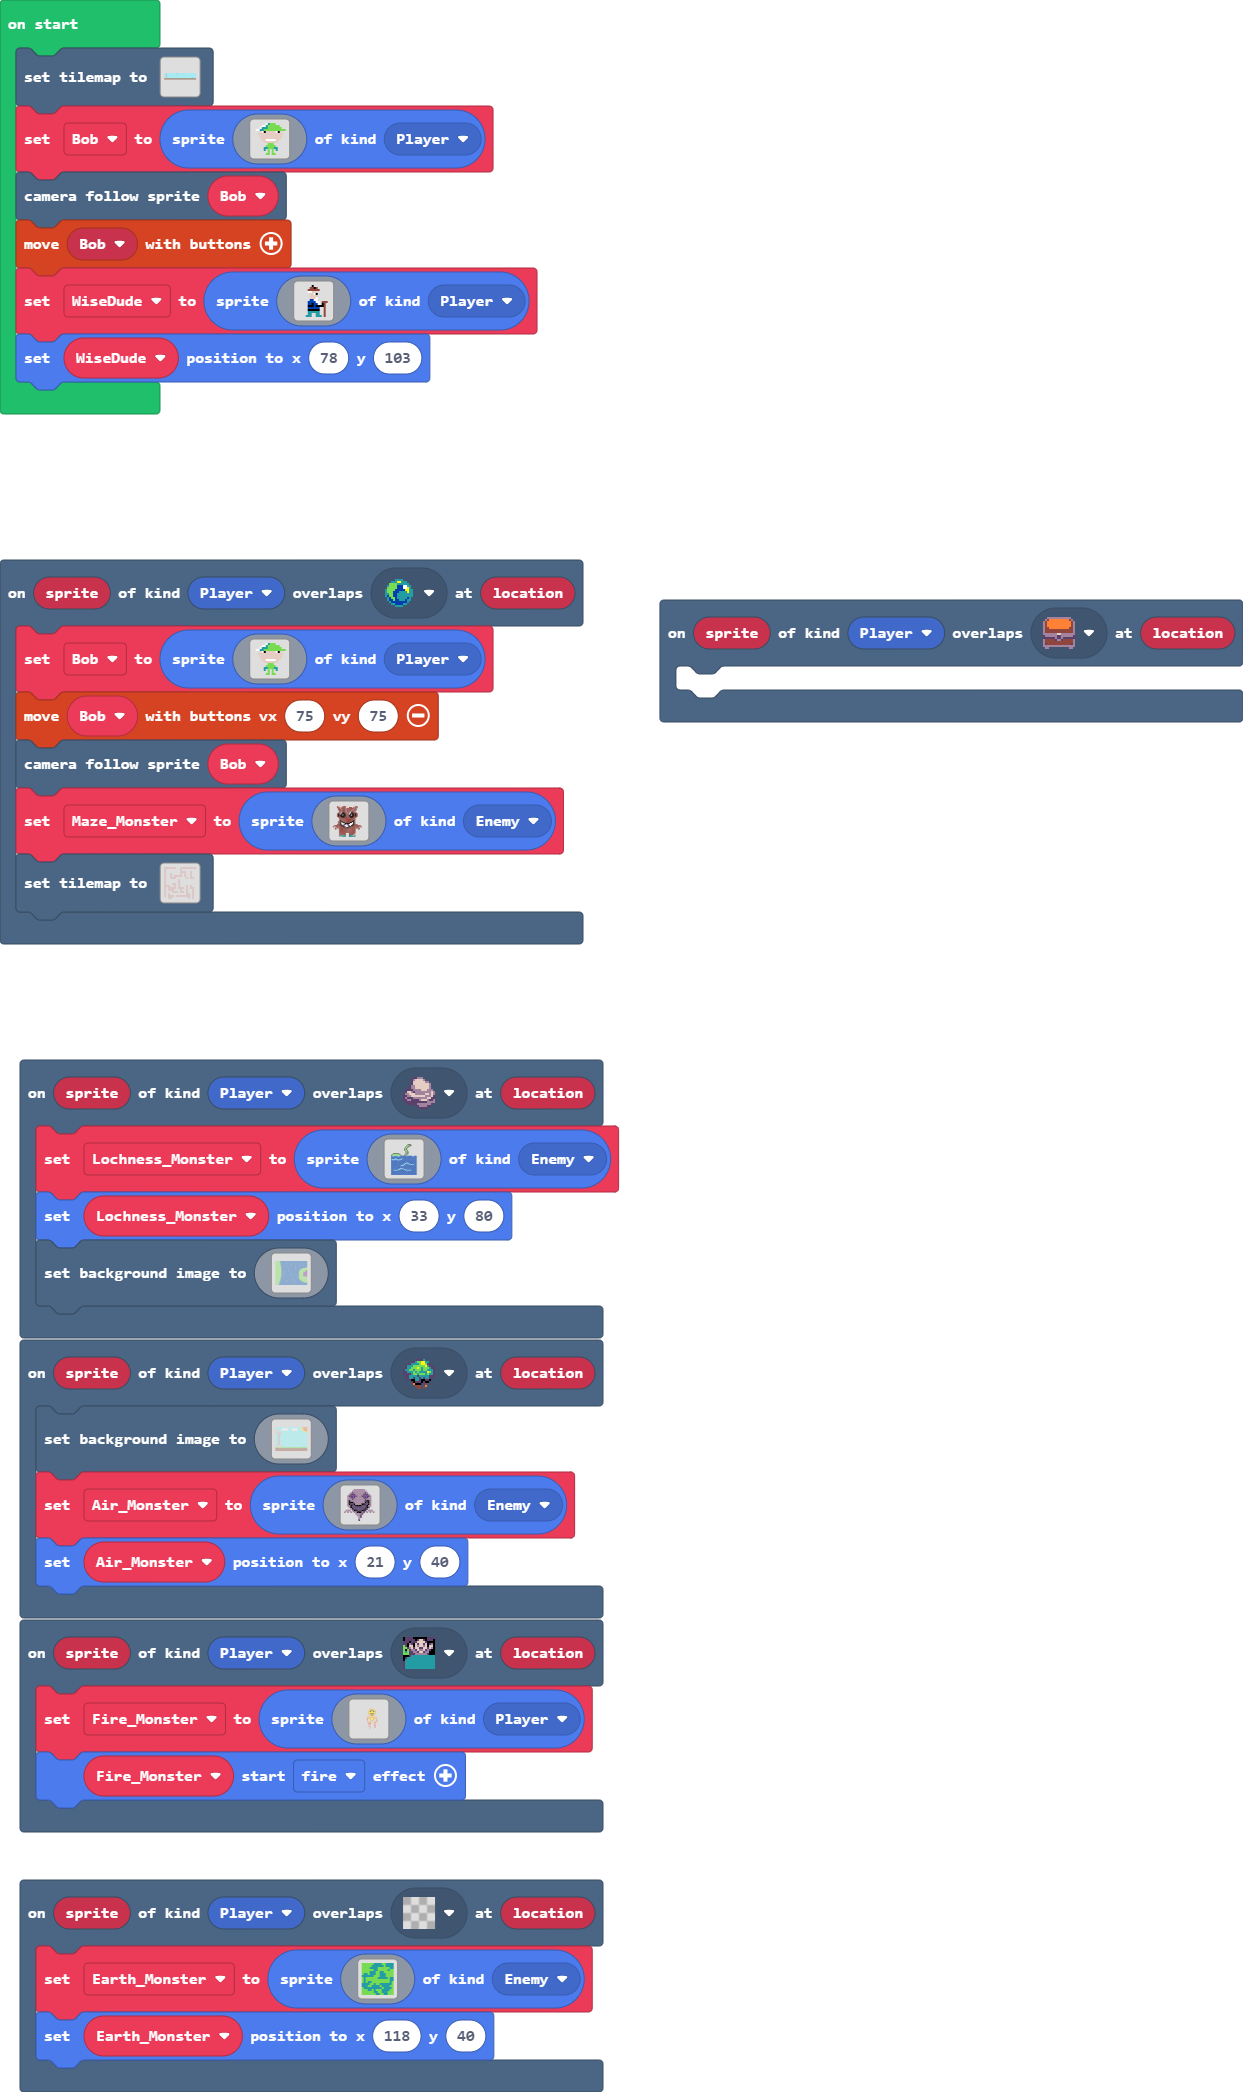
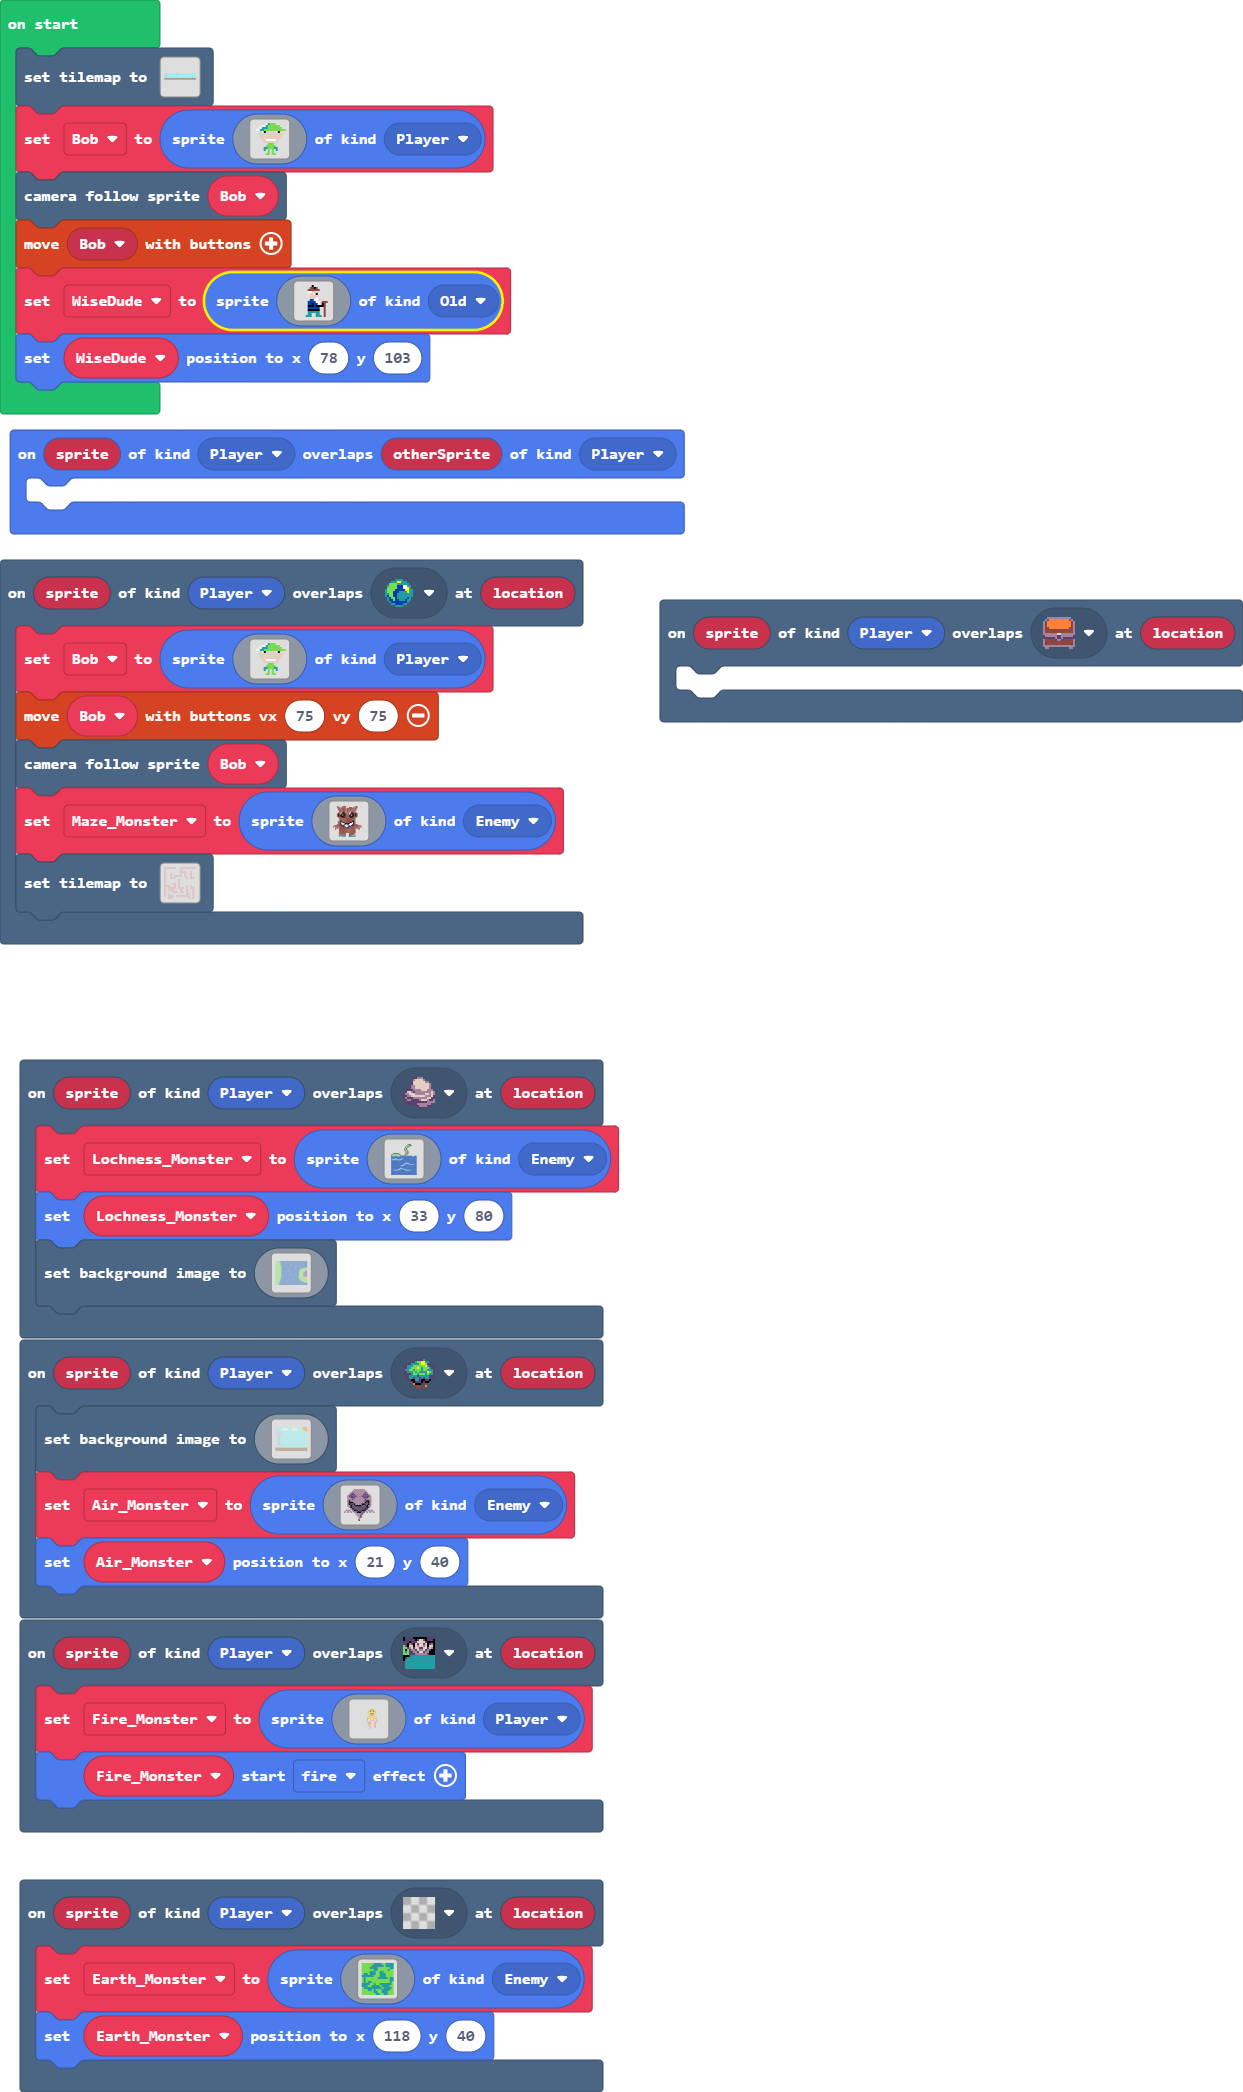
Update main.blocks, main.ts

Changed region(s): [[0.0, 0.1243, 0.5503, 0.2796]]

diff --git a/main.ts b/main.ts
@@ -1,3 +1,6 @@
+namespace SpriteKind {
+    export const Old = SpriteKind.create()
+}
 scene.onOverlapTile(SpriteKind.Player, myTiles.transparency16, function (sprite, location) {
     Earth_Monster = sprites.create(img`
         7 7 7 7 7 7 6 6 6 6 7 7 6 6 6 6 
@@ -336,6 +339,9 @@ scene.onOverlapTile(SpriteKind.Player, sprites.castle.rock0, function (sprite, l
         7777777777777777788888888888888888888888888888888888888888888888888888888888888888888888888888888888888888888888888888888888888888888888898888888888888888888888
         `)
 })
+sprites.onOverlap(SpriteKind.Player, SpriteKind.Player, function (sprite, otherSprite) {
+	
+})
 scene.onOverlapTile(SpriteKind.Player, sprites.castle.saplingOak, function (sprite, location) {
     scene.setBackgroundImage(img`
         9999999999999999999999999999999999999999999999999999999999999999999999999999999999999999999999999999999999999999999999999999999999555555544444444444444444444444
@@ -538,5 +544,5 @@ let WiseDude = sprites.create(img`
     . . . . . 6 6 6 6 6 6 . . e . . 
     . . . . . 6 6 . . 6 6 . . e . . 
     . . . . 6 6 6 . . 6 6 6 . e . . 
-    `, SpriteKind.Player)
+    `, SpriteKind.Old)
 WiseDude.setPosition(78, 103)
